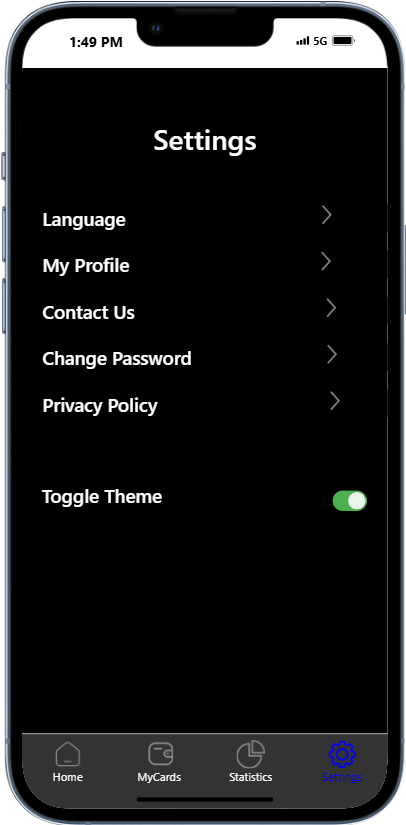
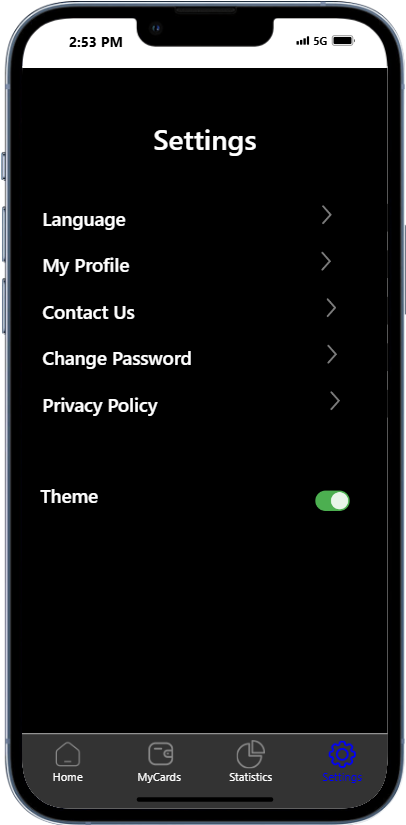
Work Completed- Readme Modified

diff --git a/bankApp/screens/Settings.js b/bankApp/screens/Settings.js
@@ -49,7 +49,7 @@ export default function Settings() {
 
       <TouchableOpacity onPress={toggleTheme} style={{ marginTop: 50, marginBottom: 250 }}>
        <View style={{flexDirection: 'row'}}>
-        <Text style={{ fontSize: 20, fontWeight: '600', marginRight: 180, color:  isDarkMode ? white : black }}>Theme</Text>
+        <Text style={{ fontSize: 20, fontWeight: '600', marginLeft:-20, marginRight: 230, color:  isDarkMode ? white : black }}>Theme</Text>
         <Image
           source={isDarkMode ? require('../assets/on-button.png') : require('../assets/off-button.png')}
           style={{ height: 40, width: 40, }}
